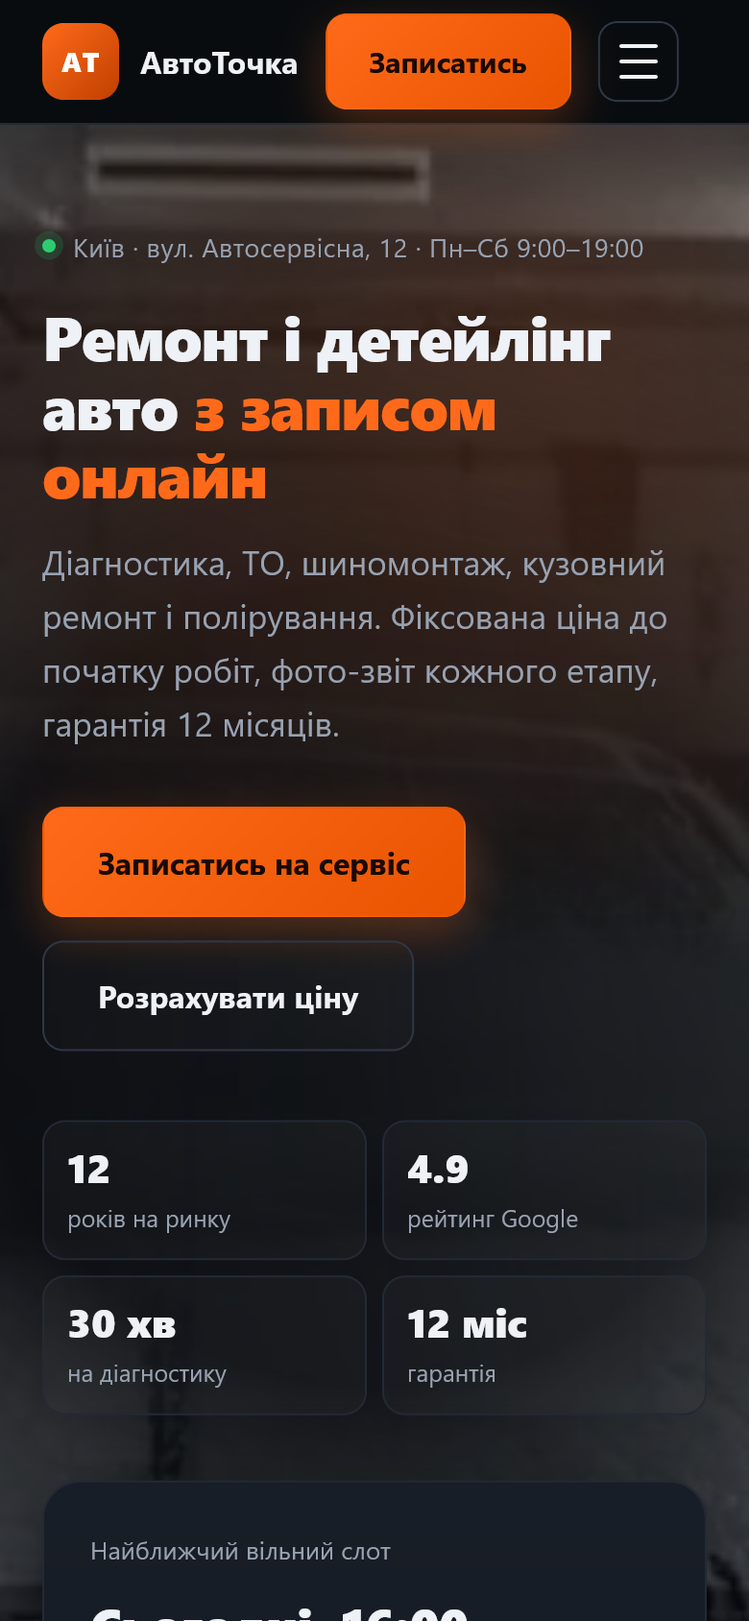
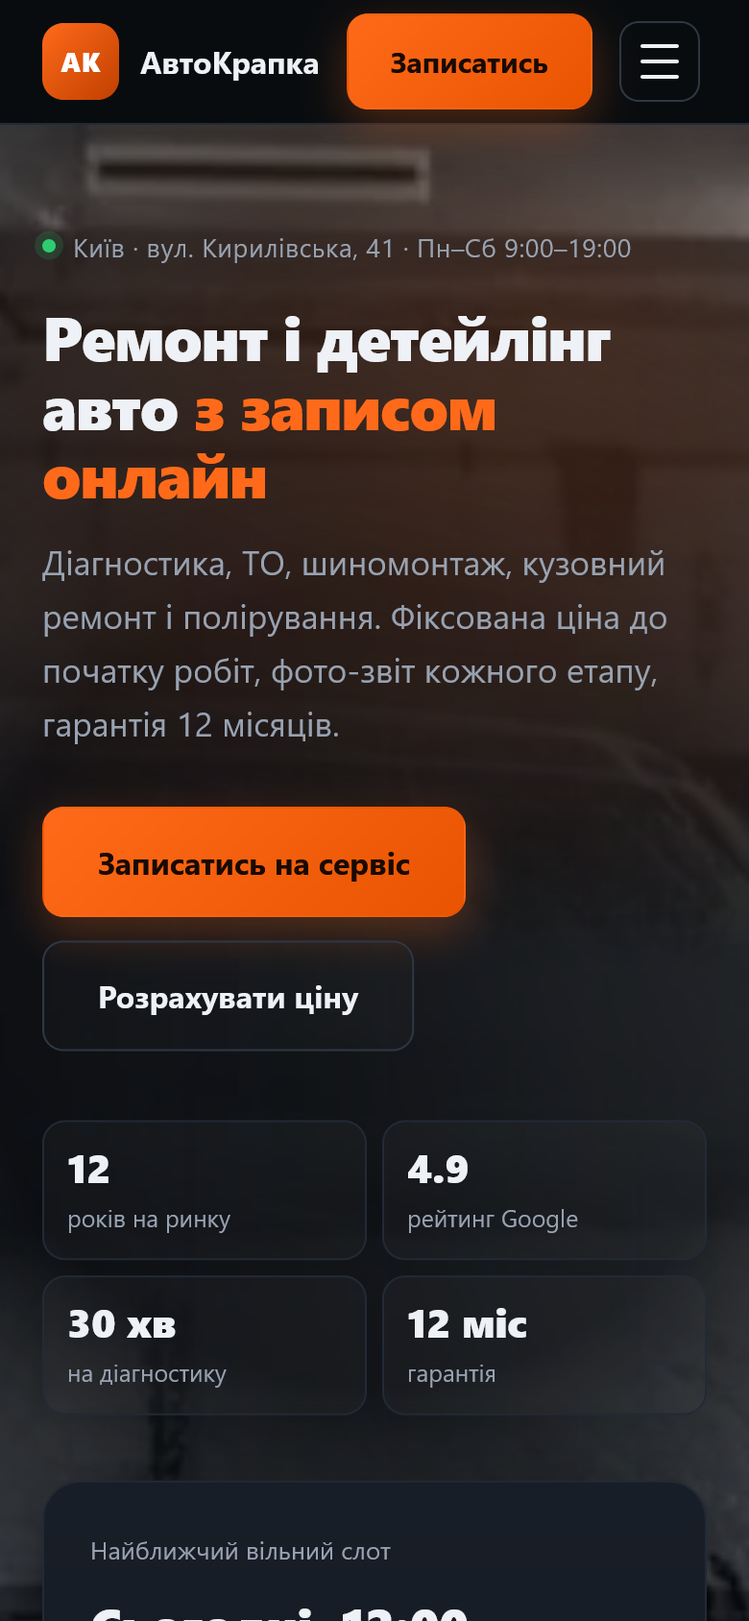
Демо-бренд переименован: АвтоТочка -> АвтоКрапка (имя не уникальное)
Причина: «АвтоТочка» совпадает с реальными фирмами той же отрасли —
СТО «АвтоТочка» в Киеве (ул. Шахтарская, 5) и магазин автозапчастей «АвтоТочка» в Броварах.
Для демо, которое показывают автосервисникам, это риск: клиент решит, что имя чужое.

Проверка вариантов поиском и по доменам:
- «Авто-К-Точка» — совпадений нет, но написание неудобное
- «АвтоКрапка» — совпадений нет, домены avtokrapka.ua/.com.ua свободны — выбран
- «АвтоПоділ» — свободно, но название района слабее по уникальности

Что сделано:
- 71 вхождение старого имени в 22 файлах: шаблоны, server.py, seo_pages.py, стили, скрипты,
  тесты, инструменты, документация
- монограмма в шапке AT -> АК; иконки icon-512.png и apple-touch-icon.png перерисованы
  (favicon «A + крапка» оставлен — новой идее подходит)
- настройка в базе c_telegram: t.me/autotochka_demo -> t.me/avtokrapka_demo
- проверки: 230 PASS / 0 FAIL, W3C 20 страниц 0/0, axe 0, якоря 88/0,
  кросс-браузерные 75/0, ba_check 9/0; старого имени нет ни на одной странице
- CHECKLIST.md: запись с обоснованием выбора и что осталось за владельцем
  (поставить свой реальный Telegram в админке)

diff --git a/templates/index.html b/templates/index.html
@@ -4,11 +4,11 @@
 <meta charset="utf-8">
 <meta name="viewport" content="width=device-width, initial-scale=1">
 <meta name="google" content="notranslate">
-<title>АвтоТочка — СТО та детейлінг у Києві | Запис онлайн</title>
+<title>АвтоКрапка — СТО та детейлінг у Києві | Запис онлайн</title>
 <meta name="description" content="Ремонт, ТО, шиномонтаж, кузовний ремонт і детейлінг у Києві. Онлайн-запис за 30 секунд, прозорий прайс, гарантія 12 місяців на роботи. Калькулятор вартості.">
 <meta name="theme-color" content="#0a0c10">
 <link rel="canonical" href="{{SITE_URL}}/">
-<meta property="og:title" content="АвтоТочка — СТО та детейлінг у Києві">
+<meta property="og:title" content="АвтоКрапка — СТО та детейлінг у Києві">
 <meta property="og:description" content="Онлайн-запис, фіксована ціна до початку робіт, гарантія 12 місяців. Калькулятор вартості ремонту.">
 <meta property="og:type" content="website">
 <meta property="og:url" content="{{SITE_URL}}/">
@@ -29,8 +29,8 @@
 <header class="top" id="top">
   <div class="wrap top-inner">
     <a class="brand" href="#top">
-      <span class="brand-mark">AT</span>
-      <span class="brand-text"><b>АвтоТочка</b><small>СТО · детейлінг</small></span>
+      <span class="brand-mark">АК</span>
+      <span class="brand-text"><b>АвтоКрапка</b><small>СТО · детейлінг</small></span>
     </a>
     <nav class="nav">
       <a href="#services">Послуги</a>
@@ -158,7 +158,7 @@
       <figure class="ba-block">
         <div class="ba-frame">
           <img class="ba-img" src="/static/img/polish-sm.webp" width="760" height="570"
-               alt="Кузов після полірування — АвтоТочка" loading="lazy" decoding="async">
+               alt="Кузов після полірування — АвтоКрапка" loading="lazy" decoding="async">
           <div class="ba-before"><img class="ba-img ba-img--before" src="/static/img/polish-sm.webp"
                width="760" height="570" alt="Фото «до» — чорно-біле" loading="lazy"
                decoding="async" aria-hidden="true"></div>
@@ -175,7 +175,7 @@
       <figure class="ba-block">
         <div class="ba-frame">
           <img class="ba-img" src="/static/img/interior-sm.webp" width="760" height="570"
-               alt="Салон після хімчистки — АвтоТочка" loading="lazy" decoding="async">
+               alt="Салон після хімчистки — АвтоКрапка" loading="lazy" decoding="async">
           <div class="ba-before"><img class="ba-img ba-img--before" src="/static/img/interior-sm.webp"
                width="760" height="570" alt="Фото «до» — чорно-біле" loading="lazy"
                decoding="async" aria-hidden="true"></div>
@@ -282,7 +282,7 @@
     <div class="about-photo">
       <img src="/static/img/master.webp" srcset="/static/img/master-sm.webp 760w, /static/img/master.webp 1422w"
            sizes="(max-width: 760px) 92vw, 46vw" width="1422" height="1067" loading="lazy" decoding="async"
-           alt="Майстер АвтоТочка за роботою">
+           alt="Майстер АвтоКрапка за роботою">
     </div>
     <div class="about-copy">
       <h2>Майстер, який відповідає за результат</h2>
@@ -402,7 +402,7 @@
       <div class="map-card">
         <iframe class="map-frame"
                 src="https://www.google.com/maps?q=50.4715341,30.4985365&z=16&hl=uk&output=embed"
-                title="Мапа: АвтоТочка, Київ, вул. Кирилівська, 41"
+                title="Мапа: АвтоКрапка, Київ, вул. Кирилівська, 41"
                 loading="lazy" referrerpolicy="no-referrer-when-downgrade" allowfullscreen></iframe>
         <div class="map-info">
           <b>Київ, вул. Кирилівська, 41</b>
@@ -421,8 +421,8 @@
   <div class="wrap foot-inner">
     <div>
       <a class="brand" href="#top">
-        <span class="brand-mark">AT</span>
-        <span class="brand-text"><b>АвтоТочка</b><small>СТО · детейлінг</small></span>
+        <span class="brand-mark">АК</span>
+        <span class="brand-text"><b>АвтоКрапка</b><small>СТО · детейлінг</small></span>
       </a>
       <p class="mini">{{C_ADDRESS}} · {{C_HOURS}}<br>
         <a href="tel:{{C_PHONE_RAW}}">{{C_PHONE}}</a></p>
@@ -451,7 +451,7 @@
     </a>
   </div>
   <div class="wrap foot-bottom">
-    <span>© {{YEAR}} АвтоТочка. Демо-сайт для портфоліо.</span>
+    <span>© {{YEAR}} АвтоКрапка. Демо-сайт для портфоліо.</span>
     <span>Зроблено з увагою до деталей</span>
   </div>
 </footer>

diff --git a/templates/privacy.html b/templates/privacy.html
@@ -5,8 +5,8 @@
 <meta name="viewport" content="width=device-width, initial-scale=1">
 <meta name="google" content="notranslate">
 <meta name="robots" content="index,follow">
-<title>Політика конфіденційності — АвтоТочка</title>
-<meta name="description" content="Які дані збирає сайт АвтоТочка, для чого вони потрібні, як зберігаються та як їх видалити.">
+<title>Політика конфіденційності — АвтоКрапка</title>
+<meta name="description" content="Які дані збирає сайт АвтоКрапка, для чого вони потрібні, як зберігаються та як їх видалити.">
 <link rel="canonical" href="{{SITE_URL}}/privacy">
 <link rel="icon" href="/static/img/favicon.svg" type="image/svg+xml">
 <link rel="stylesheet" href="/static/style.css?v={{ASSET_V}}">
@@ -16,8 +16,8 @@
 <header class="top">
   <div class="wrap top-inner">
     <a class="brand" href="/">
-      <span class="brand-mark">AT</span>
-      <span class="brand-text"><b>АвтоТочка</b><small>СТО · детейлінг</small></span>
+      <span class="brand-mark">АК</span>
+      <span class="brand-text"><b>АвтоКрапка</b><small>СТО · детейлінг</small></span>
     </a>
     <div class="top-actions">
       <a class="btn btn-ghost" href="/">← На сайт</a>
@@ -28,7 +28,7 @@
 <main class="section">
   <div class="wrap legal">
     <h1>Політика конфіденційності</h1>
-    <p class="legal-date">Редакція від 1 листопада 2026 року · ФОП «АвтоТочка» · Київ, вул. Кирилівська, 41</p>
+    <p class="legal-date">Редакція від 1 листопада 2026 року · ФОП «АвтоКрапка» · Київ, вул. Кирилівська, 41</p>
 
     <h2>1. Які дані ми збираємо</h2>
     <p>Сайт збирає лише те, що ви вводите самі у формі запису:</p>
@@ -76,7 +76,7 @@
     </ul>
     <p>Для цього достатньо написати або зателефонувати:
       <a href="tel:{{C_PHONE_RAW}}">+380 44 000-00-00</a>, або надіслати листа на
-      <a href="mailto:info@autotochka.example">info@autotochka.example</a>.
+      <a href="mailto:info@avtokrapka.example">info@avtokrapka.example</a>.
       Відповідаємо протягом 10 робочих днів.</p>
 
     <h2>8. Зміни до політики</h2>
@@ -88,7 +88,7 @@
 
 <footer class="foot">
   <div class="wrap foot-bottom">
-    <span>© {{YEAR}} АвтоТочка. Демо-сайт для портфоліо.</span>
+    <span>© {{YEAR}} АвтоКрапка. Демо-сайт для портфоліо.</span>
     <span><a href="/">Головна</a></span>
   </div>
 </footer>

diff --git a/templates/cases.html b/templates/cases.html
@@ -23,8 +23,8 @@
 <header class="top">
   <div class="wrap top-inner">
     <a class="brand" href="/">
-      <span class="brand-mark">AT</span>
-      <span class="brand-text"><b>АвтоТочка</b><small>портфоліо</small></span>
+      <span class="brand-mark">АК</span>
+      <span class="brand-text"><b>АвтоКрапка</b><small>портфоліо</small></span>
     </a>
     <nav class="nav">
       <a href="#case-sto">Сайт СТО</a>
@@ -62,7 +62,7 @@
     <div class="case-head">
       <div>
         <p class="case-tag">Сайт + адмін-панель · СТО та детейлінг · Київ</p>
-        <h2>АвтоТочка: запис на сервіс без дзвінків</h2>
+        <h2>АвтоКрапка: запис на сервіс без дзвінків</h2>
         <p class="case-lead">Автосервіс втрачав заявки: люди писали в директ і на Viber, адміністратор
           не встигав відповідати, частина клієнтів ішла до конкурентів.</p>
       </div>
@@ -76,7 +76,7 @@
     <div class="case-media two">
       <figure>
         <img src="/static/img/cases/site-hero.webp" width="1280" height="800" loading="lazy" decoding="async"
-             alt="Головна сторінка сайту АвтоТочка з онлайн-записом">
+             alt="Головна сторінка сайту АвтоКрапка з онлайн-записом">
         <figcaption>Головна: оффер, ціни-орієнтири, живий слот запису</figcaption>
       </figure>
       <figure>
@@ -234,8 +234,8 @@
   <div class="wrap foot-inner">
     <div>
       <a class="brand" href="/">
-        <span class="brand-mark">AT</span>
-        <span class="brand-text"><b>АвтоТочка</b><small>портфоліо та демо</small></span>
+        <span class="brand-mark">АК</span>
+        <span class="brand-text"><b>АвтоКрапка</b><small>портфоліо та демо</small></span>
       </a>
       <p class="mini">Демонстраційні проєкти для портфоліо. Дані клієнтів і телефони — вигадані.</p>
     </div>
@@ -253,7 +253,7 @@
     </div>
   </div>
   <div class="wrap foot-bottom">
-    <span>© {{YEAR}} АвтоТочка. Демо-сайт для портфоліо.</span>
+    <span>© {{YEAR}} АвтоКрапка. Демо-сайт для портфоліо.</span>
     <span>Зроблено з увагою до деталей</span>
   </div>
 </footer>

diff --git a/templates/pricing.html b/templates/pricing.html
@@ -22,8 +22,8 @@
 <header class="top">
   <div class="wrap top-inner">
     <a class="brand" href="/">
-      <span class="brand-mark">AT</span>
-      <span class="brand-text"><b>АвтоТочка</b><small>портфоліо</small></span>
+      <span class="brand-mark">АК</span>
+      <span class="brand-text"><b>АвтоКрапка</b><small>портфоліо</small></span>
     </a>
     <nav class="nav">
       <a href="/cases">Портфоліо</a>
@@ -170,8 +170,8 @@
   <div class="wrap foot-inner">
     <div>
       <a class="brand" href="/">
-        <span class="brand-mark">AT</span>
-        <span class="brand-text"><b>АвтоТочка</b><small>портфоліо та демо</small></span>
+        <span class="brand-mark">АК</span>
+        <span class="brand-text"><b>АвтоКрапка</b><small>портфоліо та демо</small></span>
       </a>
       <p class="mini">Демонстраційні проєкти для портфоліо. Дані клієнтів і телефони — вигадані.</p>
     </div>
@@ -188,7 +188,7 @@
     </div>
   </div>
   <div class="wrap foot-bottom">
-    <span>© {{YEAR}} АвтоТочка. Демо-сайт для портфоліо.</span>
+    <span>© {{YEAR}} АвтоКрапка. Демо-сайт для портфоліо.</span>
     <span>Зроблено з увагою до деталей</span>
   </div>
 </footer>

diff --git a/templates/admin.html b/templates/admin.html
@@ -4,7 +4,7 @@
 <meta charset="utf-8">
 <meta name="viewport" content="width=device-width, initial-scale=1">
 <meta name="google" content="notranslate">
-<title>Адмін-панель — АвтоТочка</title>
+<title>Адмін-панель — АвтоКрапка</title>
 <link rel="stylesheet" href="/static/style.css?v={{ASSET_V}}">
 <link rel="stylesheet" href="/static/admin.css?v={{ASSET_V}}">
 </head>
@@ -13,8 +13,8 @@
 <header class="adm-head">
   <div class="wrap adm-head-inner">
     <a class="brand" href="/" target="_blank" rel="noopener">
-      <span class="brand-mark">AT</span>
-      <span class="brand-text"><b>АвтоТочка</b><small>адмін-панель</small></span>
+      <span class="brand-mark">АК</span>
+      <span class="brand-text"><b>АвтоКрапка</b><small>адмін-панель</small></span>
     </a>
     <div class="adm-tools">
       <a class="btn btn-ghost btn-sm" href="/" target="_blank" rel="noopener">Відкрити сайт ↗</a>
@@ -25,7 +25,7 @@
 </header>
 
 <main class="wrap adm-main">
-  <h1 class="sr-only">Панель керування сайтом АвтоТочка</h1>
+  <h1 class="sr-only">Панель керування сайтом АвтоКрапка</h1>
   <nav class="adm-nav" aria-label="Розділи панелі">
     <p class="adm-nav-title">Розділи</p>
     <ol class="adm-nav-list">

diff --git a/templates/page.html b/templates/page.html
@@ -24,8 +24,8 @@
 <header class="top" id="top">
   <div class="wrap top-inner">
     <a class="brand" href="/">
-      <span class="brand-mark">AT</span>
-      <span class="brand-text"><b>АвтоТочка</b><small>СТО · детейлінг</small></span>
+      <span class="brand-mark">АК</span>
+      <span class="brand-text"><b>АвтоКрапка</b><small>СТО · детейлінг</small></span>
     </a>
     <nav class="nav">
       <a href="/services">Послуги</a>
@@ -61,8 +61,8 @@
   <div class="wrap foot-inner">
     <div>
       <a class="brand" href="/">
-        <span class="brand-mark">AT</span>
-        <span class="brand-text"><b>АвтоТочка</b><small>СТО · детейлінг</small></span>
+        <span class="brand-mark">АК</span>
+        <span class="brand-text"><b>АвтоКрапка</b><small>СТО · детейлінг</small></span>
       </a>
       <p class="mini">{{C_ADDRESS}} · {{C_HOURS}}<br>
         <a href="tel:{{C_PHONE_RAW}}">{{C_PHONE}}</a></p>
@@ -82,7 +82,7 @@
     </div>
   </div>
   <div class="wrap foot-bottom">
-    <span>© {{YEAR}} АвтоТочка. Демо-сайт для портфоліо.</span>
+    <span>© {{YEAR}} АвтоКрапка. Демо-сайт для портфоліо.</span>
     <span>Зроблено з увагою до деталей</span>
   </div>
 </footer>

diff --git a/templates/404.html b/templates/404.html
@@ -5,7 +5,7 @@
 <meta name="viewport" content="width=device-width, initial-scale=1">
 <meta name="google" content="notranslate">
 <meta name="robots" content="noindex">
-<title>Сторінку не знайдено — АвтоТочка</title>
+<title>Сторінку не знайдено — АвтоКрапка</title>
 <meta name="theme-color" content="#0a0c10">
 <link rel="icon" href="/static/img/favicon.svg" type="image/svg+xml">
 <link rel="stylesheet" href="/static/style.css?v={{ASSET_V}}">
@@ -14,8 +14,8 @@
 <header class="top">
   <div class="wrap top-inner">
     <a class="brand" href="/">
-      <span class="brand-mark">AT</span>
-      <span class="brand-text"><b>АвтоТочка</b><small>СТО · детейлінг</small></span>
+      <span class="brand-mark">АК</span>
+      <span class="brand-text"><b>АвтоКрапка</b><small>СТО · детейлінг</small></span>
     </a>
     <div class="top-actions">
       <a class="btn btn-ghost" href="/cases">Портфоліо</a>
@@ -44,7 +44,7 @@
 
 <footer class="foot">
   <div class="wrap foot-bottom">
-    <span>© {{YEAR}} АвтоТочка. Демо-сайт для портфоліо.</span>
+    <span>© {{YEAR}} АвтоКрапка. Демо-сайт для портфоліо.</span>
     <span>Зроблено з увагою до деталей</span>
   </div>
 </footer>

diff --git a/templates/reminder.html b/templates/reminder.html
@@ -5,7 +5,7 @@
 <meta name="viewport" content="width=device-width, initial-scale=1">
 <meta name="google" content="notranslate">
 <meta name="robots" content="noindex, nofollow">
-<title>Ваш запис · АвтоТочка</title>
+<title>Ваш запис · АвтоКрапка</title>
 <meta name="theme-color" content="#0a0c10">
 <link rel="icon" href="/static/img/favicon.svg" type="image/svg+xml">
 <link rel="stylesheet" href="/static/style.css?v={{ASSET_V}}">
@@ -34,7 +34,7 @@
 </head>
 <body style="background:var(--bg)">
 <main class="r-wrap">
-  <a class="r-brand" href="/"><span class="r-mark">AT</span><b>АвтоТочка</b></a>
+  <a class="r-brand" href="/"><span class="r-mark">AT</span><b>АвтоКрапка</b></a>
   {{STATE_HTML}}
   <div class="r-card">
     <h1>Ваш запис</h1>
@@ -56,7 +56,7 @@
       <button class="r-cancel" type="submit">Скасувати запис</button>
     </form>
   </div>
-  <p class="r-note" style="text-align:center;margin-top:22px">АвтоТочка · {{ADDRESS}} · {{HOURS}}</p>
+  <p class="r-note" style="text-align:center;margin-top:22px">АвтоКрапка · {{ADDRESS}} · {{HOURS}}</p>
 </main>
 </body>
 </html>

diff --git a/templates/login.html b/templates/login.html
@@ -4,7 +4,7 @@
 <meta charset="utf-8">
 <meta name="viewport" content="width=device-width, initial-scale=1">
 <meta name="google" content="notranslate">
-<title>Вхід — АвтоТочка</title>
+<title>Вхід — АвтоКрапка</title>
 <link rel="stylesheet" href="/static/style.css?v={{ASSET_V}}">
 <style>
   body{min-height:100vh;display:grid;place-items:center;padding:24px;
@@ -28,8 +28,8 @@
 <body>
 <main class="card-login">
   <a class="brand" href="/">
-    <span class="brand-mark">AT</span>
-    <span class="brand-text"><b>АвтоТочка</b><small>адмін-панель</small></span>
+    <span class="brand-mark">АК</span>
+    <span class="brand-text"><b>АвтоКрапка</b><small>адмін-панель</small></span>
   </a>
   <h1>Вхід в адмін-панель</h1>
   <p class="sub">Заявки, прайс і послуги вашого сайту.</p>

diff --git a/static/style.css b/static/style.css
@@ -1,4 +1,4 @@
-/* АвтоТочка — тёмная тема, адаптив от 360px */
+/* АвтоКрапка — тёмная тема, адаптив от 360px */
 :root{
   --bg:#0a0c10;
   --bg-2:#0f1218;
@@ -336,7 +336,7 @@ textarea{resize:vertical}
   .rating{text-align:left}
 }
 /* ==========================================================================
-   АвтоТочка v3 — фотографии, галерея, отзывы, лайтбокс
+   АвтоКрапка v3 — фотографии, галерея, отзывы, лайтбокс
    ========================================================================== */
 
 /* ---------- hero с фотографией ---------- */

diff --git a/static/admin.js b/static/admin.js
@@ -318,7 +318,7 @@
     if (reviewBtn) {
       const link = document.querySelector('meta[name="reviews-url"]')?.content ||
                    "https://maps.google.com/";
-      const text = "Дякуємо, що обрали АвтоТочку! Якщо все сподобалось — залиште, будь ласка, " +
+      const text = "Дякуємо, що обрали АвтоКрапку! Якщо все сподобалось — залиште, будь ласка, " +
                    "відгук, це допомагає нам: " + link;
       const copied = await copyText(text);
       toast(copied ? "Прохання про відгук скопійовано" : text);

diff --git a/static/app.js b/static/app.js
@@ -1,4 +1,4 @@
-/* АвтоТочка — интерактив главной страницы (без зависимостей) */
+/* АвтоКрапка — интерактив главной страницы (без зависимостей) */
 (() => {
   "use strict";
   const $ = (sel, root = document) => root.querySelector(sel);
